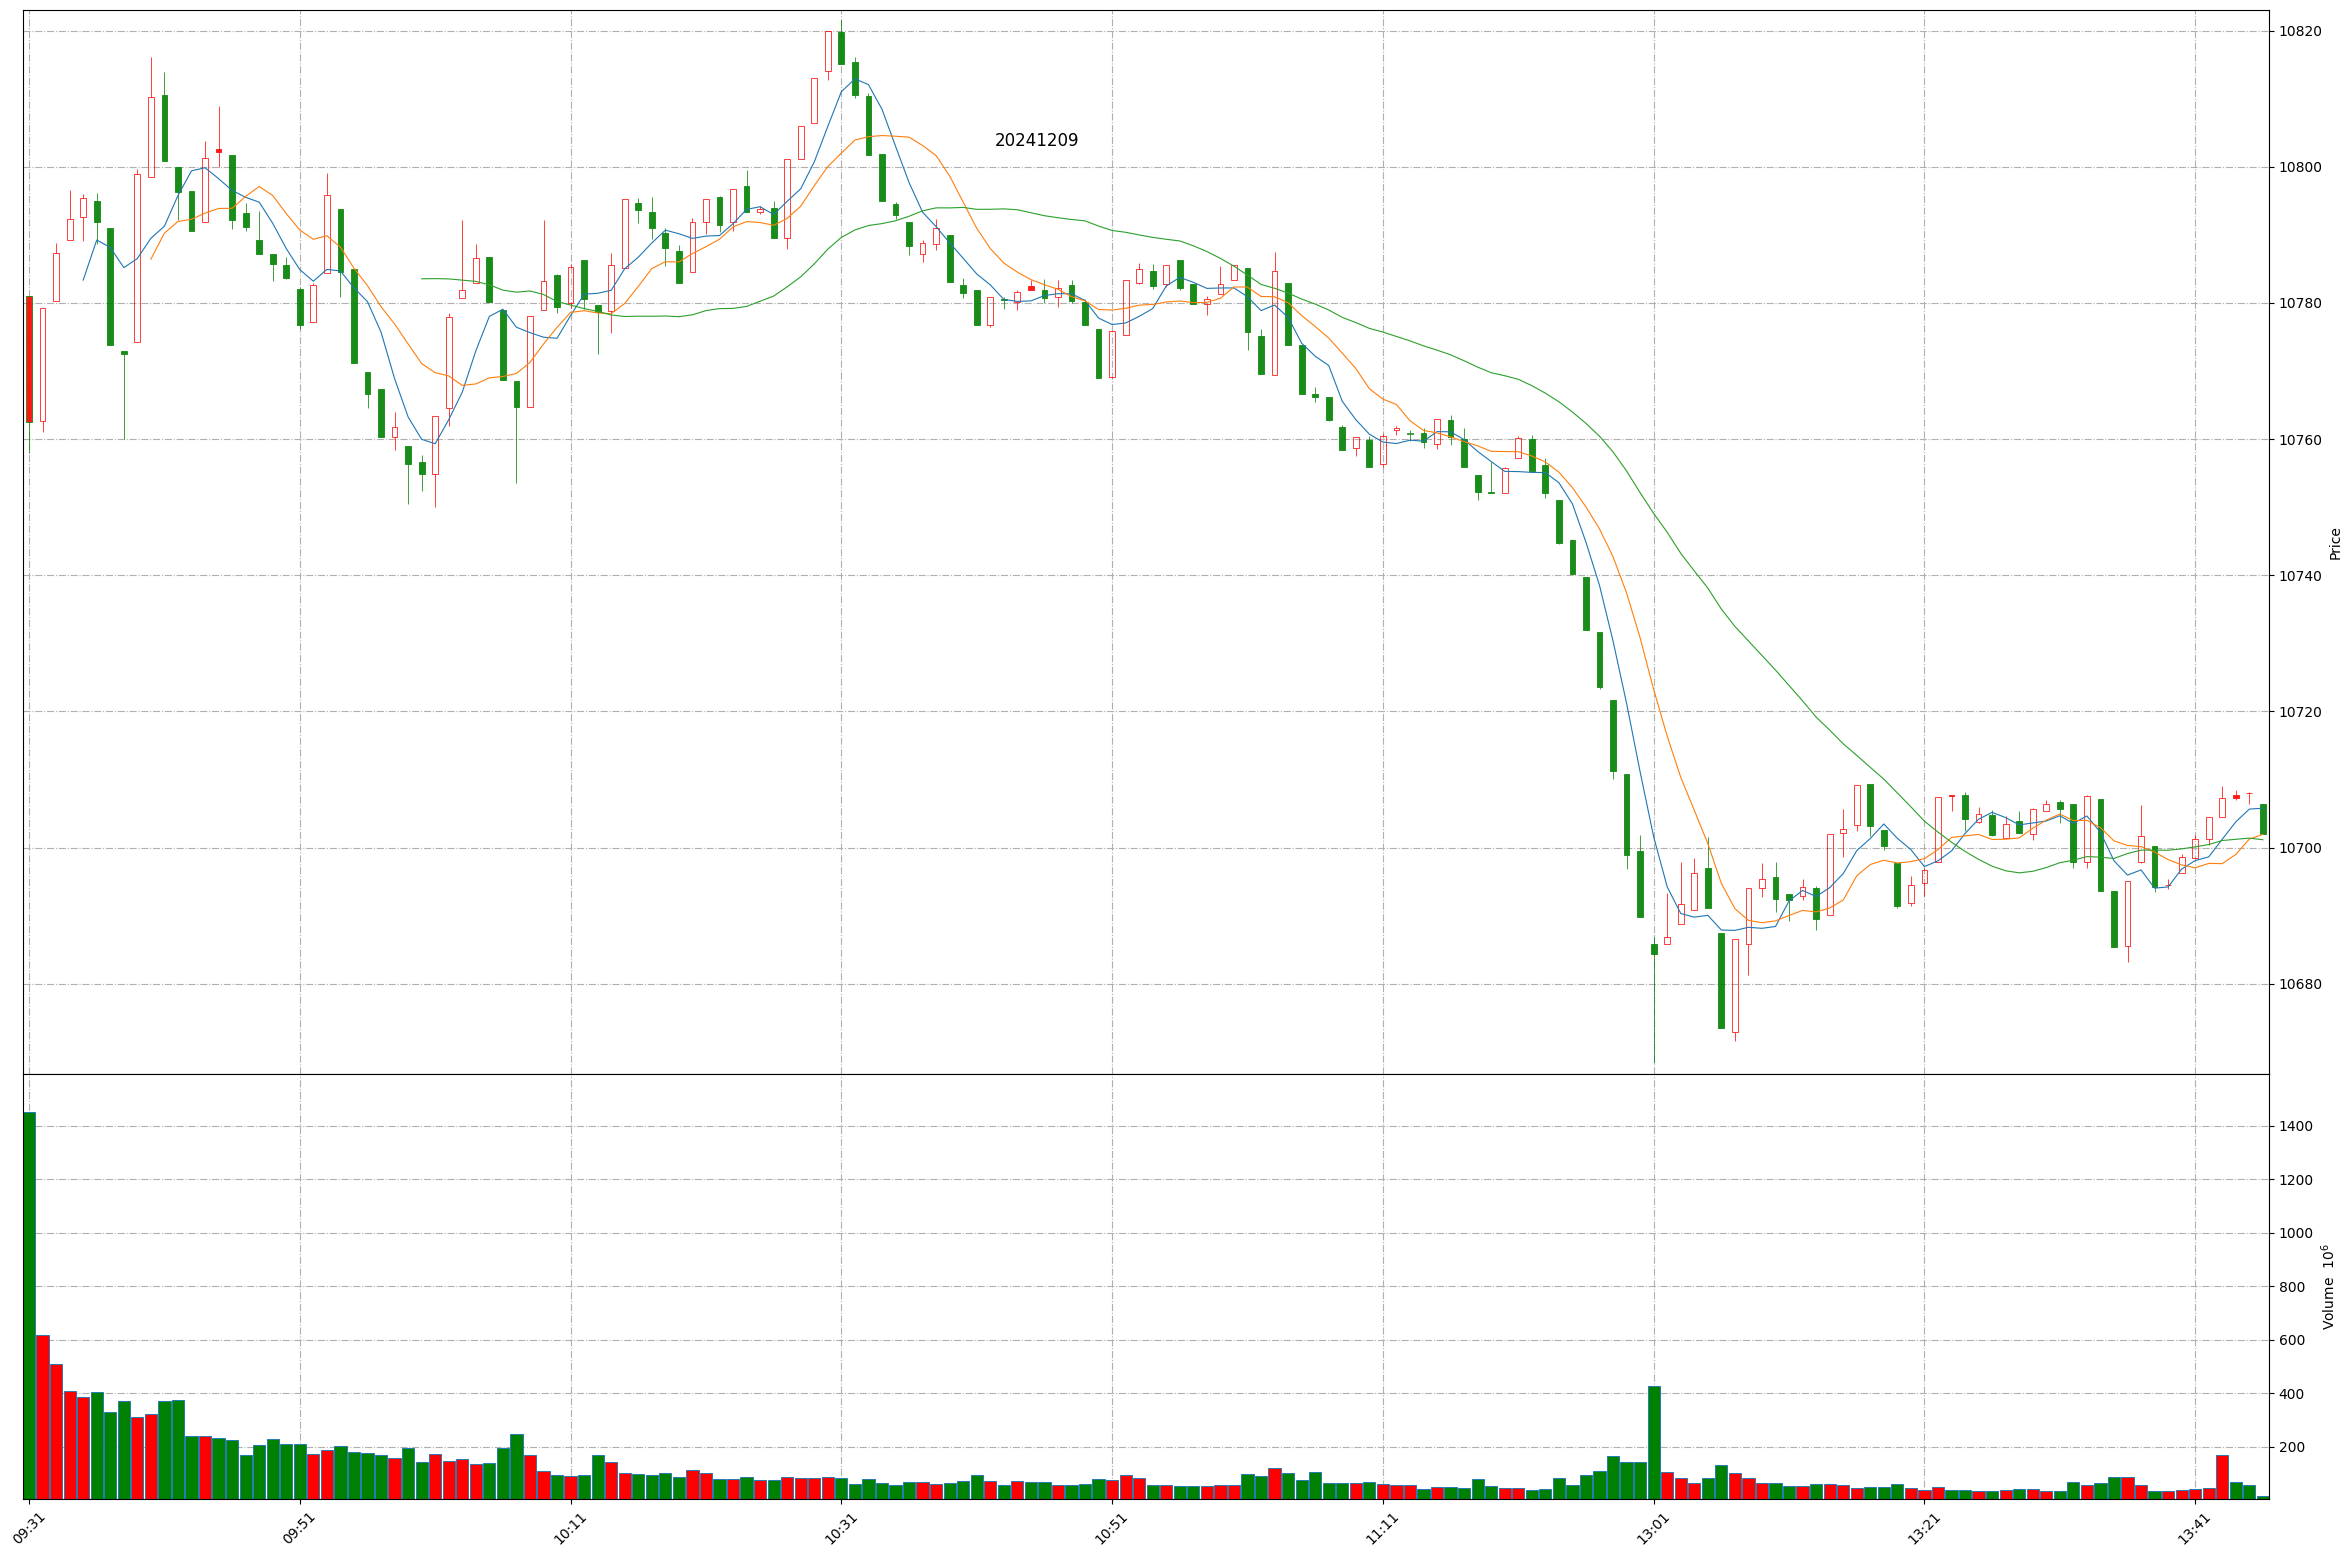
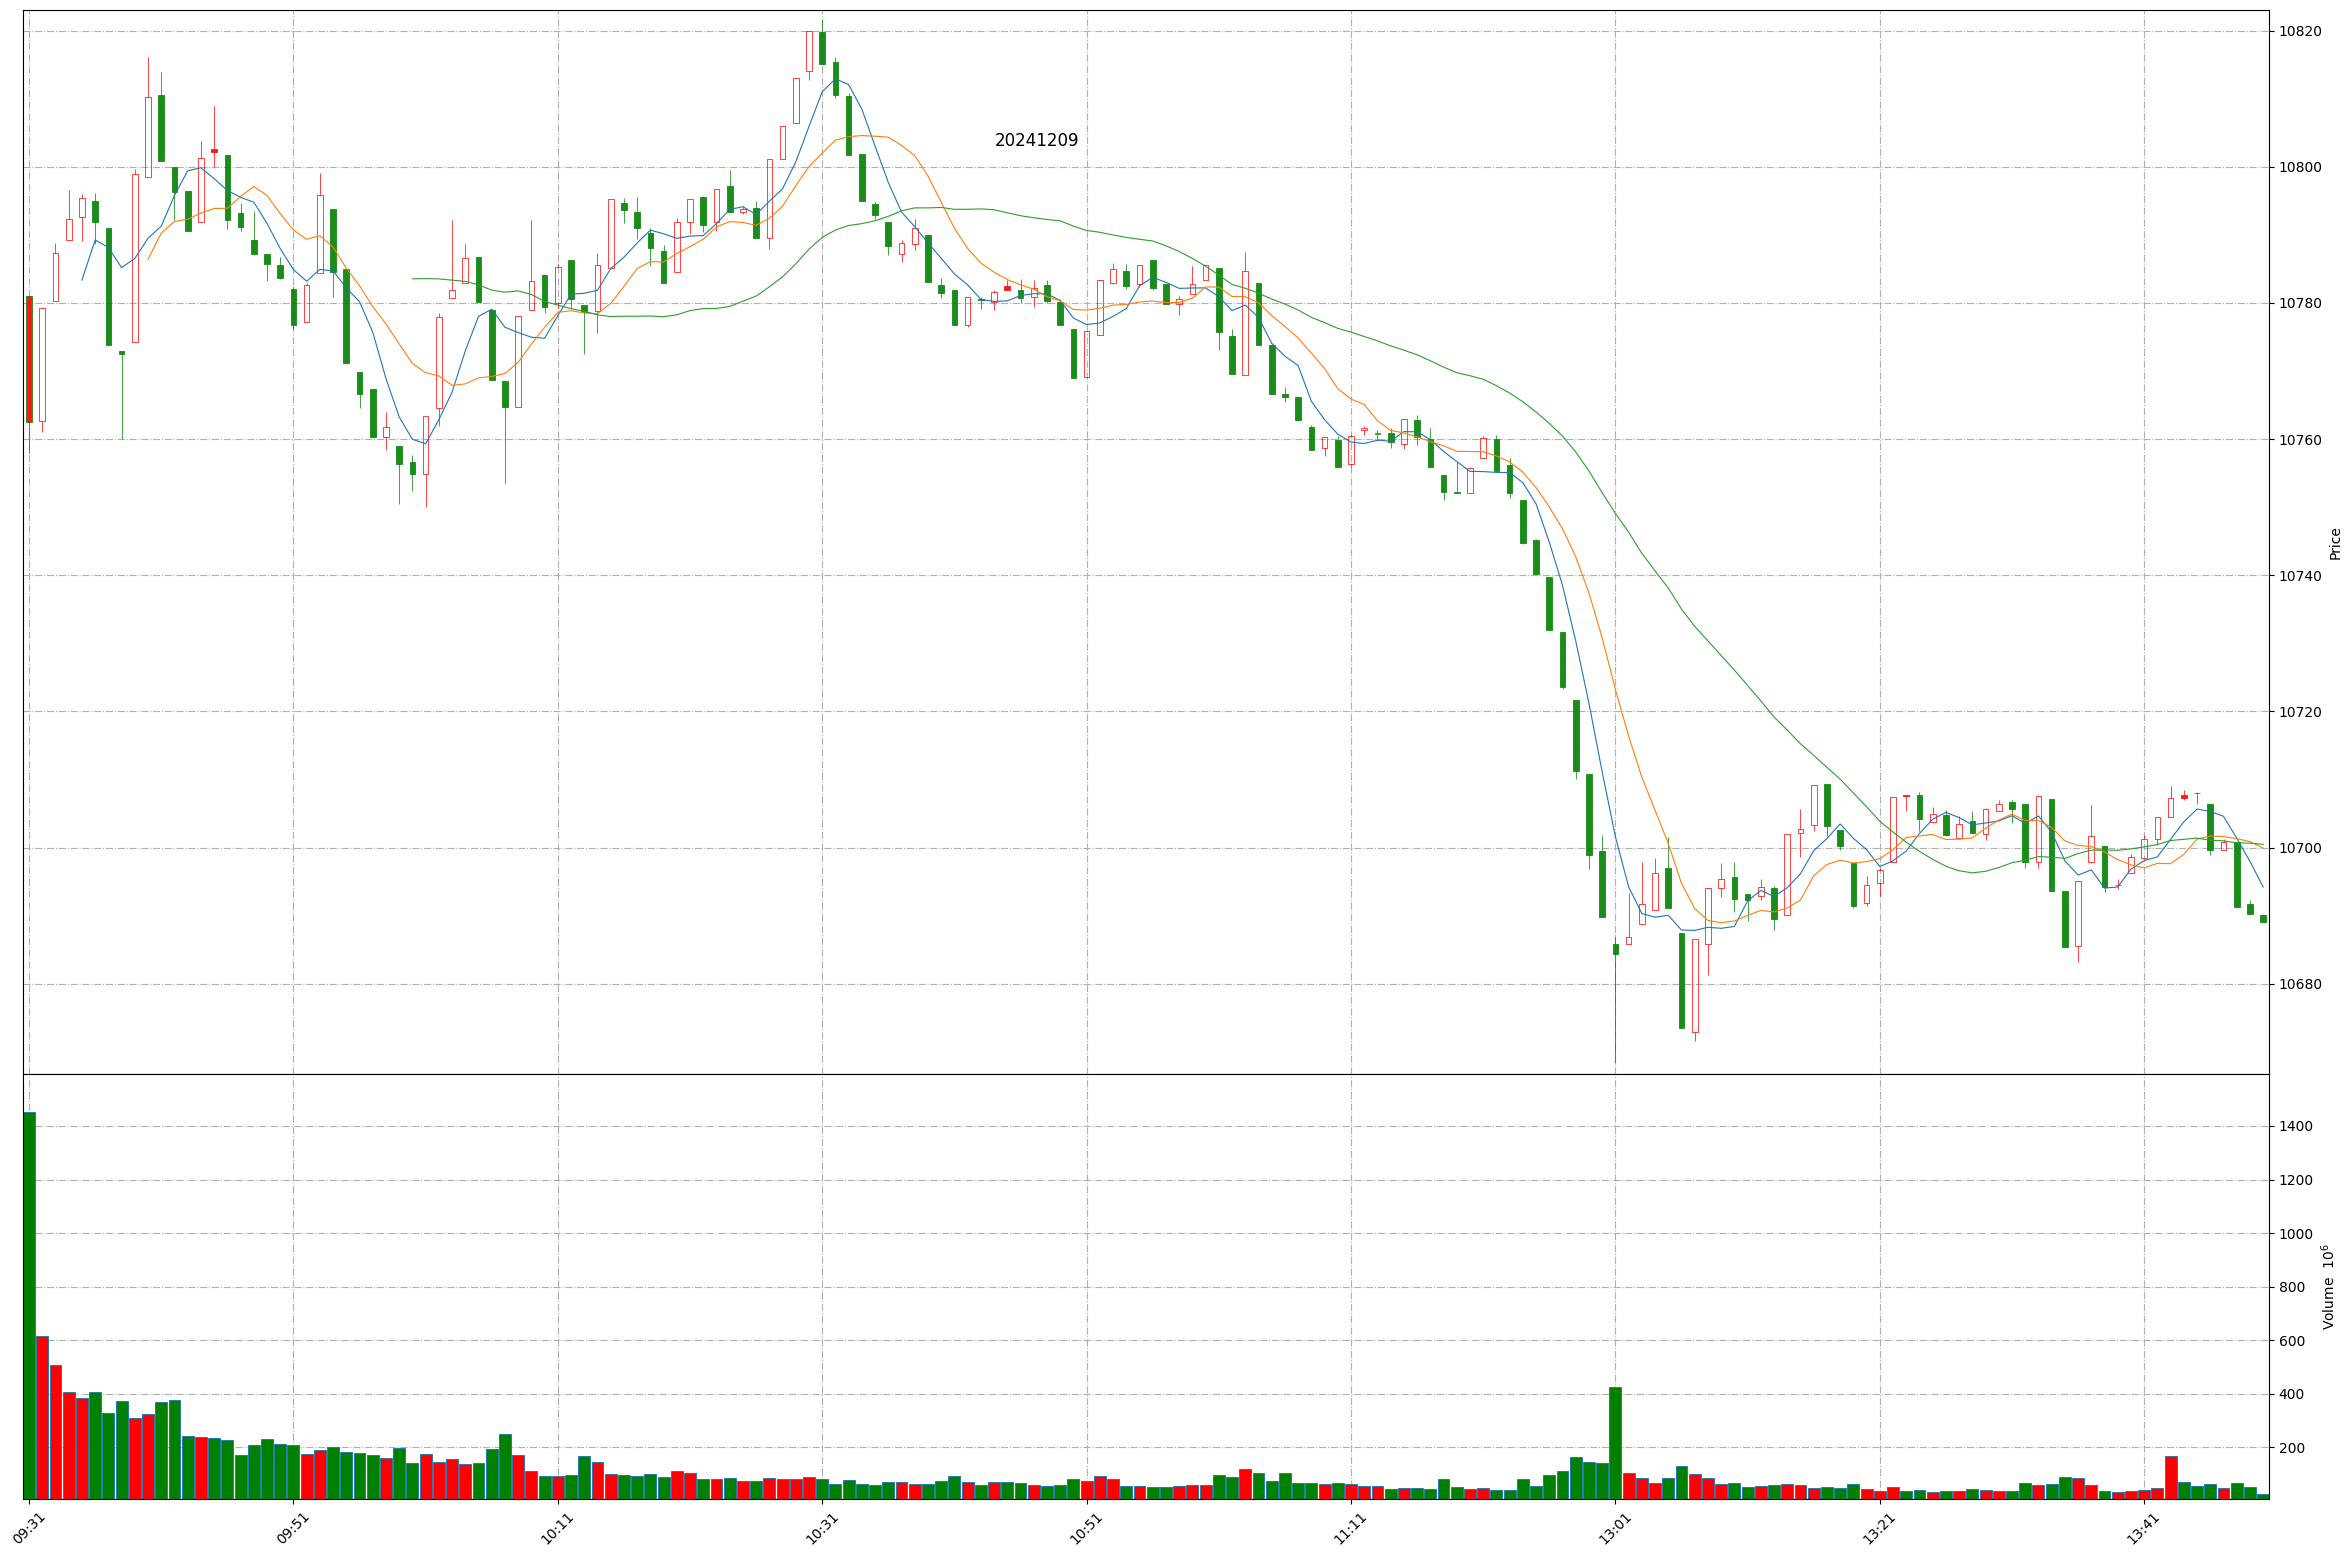
Github action update at 2024-12-09 13:49:45.

Changed region(s): [[0.031, 0.0308, 0.9622, 0.6782], [0.031, 0.894, 0.6518, 0.9865], [0.6518, 0.894, 0.9622, 0.9865]]

diff --git a/README.md b/README.md
@@ -1,11 +1,11 @@
 
 # Daily-A-share-market-quotes 每日 A 股指数（5min 更新）- 20241209
 
-### 上证指数 20241209 13:45
+### 上证指数 20241209 13:49
 ![](./fig/2024/12/20241209-sh000001.png)
 
-### 深证成指 20241209 13:45
+### 深证成指 20241209 13:49
 ![](./fig/2024/12/20241209-sz399001.png)
 
-### 北证50 20241209 13:45
+### 北证50 20241209 13:49
 ![](./fig/2024/12/20241209-bj899050.png)
